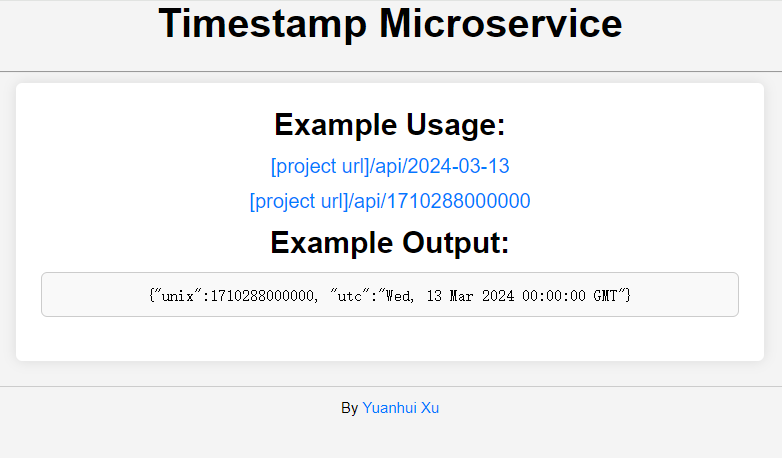
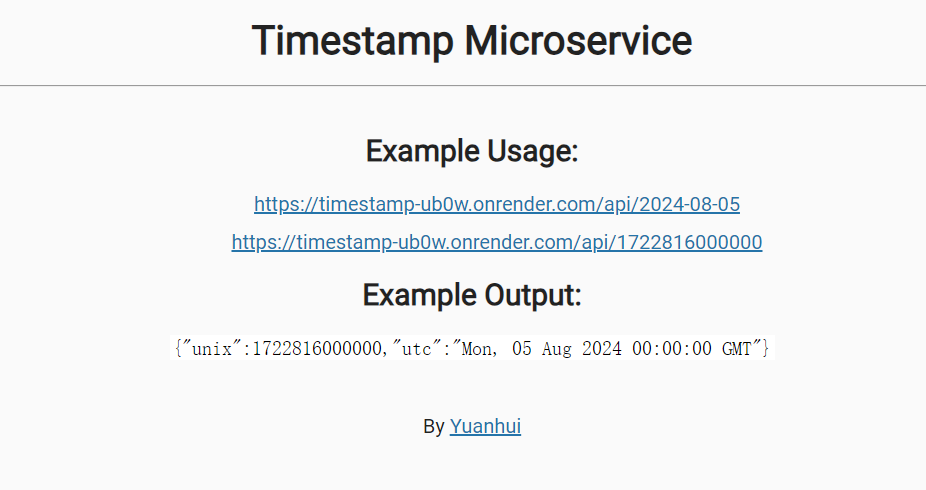
update timestamp api

diff --git a/script.js b/script.js
@@ -1,88 +1,88 @@
-document.addEventListener('DOMContentLoaded', function() {
-    const container = document.getElementById('container');
+document.addEventListener("DOMContentLoaded", function () {
+  const container = document.getElementById("container");
 
-    // Sample data for cards
-    const cards = [
-        { 
-            imageUrl: './assets/task-master.png',
-            title: 'Task Master',
-            keywords: 'React Javascript HTML CSS',
-            url: 'https://imyuanhui.github.io/task-master'
-        },
-        { 
-            imageUrl: './assets/markdown-previewer.png',
-            title: 'Markdown Previewer',
-            keywords: 'React Javascript HTML CSS',
-            url: 'https://imyuanhui.github.io/markdown-previewer'
-        },
-        { 
-            imageUrl: './assets/club.png',
-            title: 'Responsive Web Page',
-            keywords: 'React Javascript HTML CSS',
-            url: 'https://imyuanhui.github.io/boxing-club'
-        },
-        { 
-            imageUrl: './assets/online-drum.png',
-            title: 'Online Drum',
-            keywords: 'Javascript HTML CSS',
-            url: 'https://imyuanhui.github.io/online-drum'
-        },
-        { 
-            imageUrl: './assets/clock.png',
-            title: 'Pomodoro Clock',
-            keywords: 'Javascript HTML CSS',
-            url: 'https://imyuanhui.github.io/pomodoro-clock'
-        },
-        { 
-            imageUrl: './assets/quote-machine.png',
-            title: 'Random Quote Machine',
-            keywords: 'Javascript HTML CSS',
-            url: 'https://imyuanhui.github.io/random-quote-machine'
-        },
-        { 
-            imageUrl: './assets/timestamp.png',
-            title: 'Timestamp Mircoservice',
-            keywords: 'Node Express Javascript HTML CSS',
-            url: 'https://3000-freecodecam-boilerplate-wi2ngr0xs7o.ws-us110.gitpod.io/'
-        },
-        { 
-            imageUrl: './assets/parser.png',
-            title: 'Header Parser Microservice',
-            keywords: 'Node Express Javascript HTML CSS',
-            url: 'https://3000-freecodecam-boilerplate-z6vkcwscfzt.ws-us110.gitpod.io/'
-        }
-    ];
+  // Sample data for cards
+  const cards = [
+    {
+      imageUrl: "./assets/task-master.png",
+      title: "Task Master",
+      keywords: "React Javascript HTML CSS",
+      url: "https://imyuanhui.github.io/task-master",
+    },
+    {
+      imageUrl: "./assets/markdown-previewer.png",
+      title: "Markdown Previewer",
+      keywords: "React Javascript HTML CSS",
+      url: "https://imyuanhui.github.io/markdown-previewer",
+    },
+    {
+      imageUrl: "./assets/club.png",
+      title: "Responsive Web Page",
+      keywords: "React Javascript HTML CSS",
+      url: "https://imyuanhui.github.io/boxing-club",
+    },
+    {
+      imageUrl: "./assets/online-drum.png",
+      title: "Online Drum",
+      keywords: "Javascript HTML CSS",
+      url: "https://imyuanhui.github.io/online-drum",
+    },
+    {
+      imageUrl: "./assets/clock.png",
+      title: "Pomodoro Clock",
+      keywords: "Javascript HTML CSS",
+      url: "https://imyuanhui.github.io/pomodoro-clock",
+    },
+    {
+      imageUrl: "./assets/quote-machine.png",
+      title: "Random Quote Machine",
+      keywords: "Javascript HTML CSS",
+      url: "https://imyuanhui.github.io/random-quote-machine",
+    },
+    {
+      imageUrl: "./assets/timestamp.png",
+      title: "Timestamp Mircoservice",
+      keywords: "Node Express Javascript HTML CSS",
+      url: "https://timestamp-ub0w.onrender.com/",
+    },
+    {
+      imageUrl: "./assets/parser.png",
+      title: "Header Parser Microservice",
+      keywords: "Node Express Javascript HTML CSS",
+      url: "https://3000-freecodecam-boilerplate-z6vkcwscfzt.ws-us110.gitpod.io/",
+    },
+  ];
 
-    cards.forEach(function(cardData) {
-        const card = document.createElement('div');
-        card.classList.add('card');
+  cards.forEach(function (cardData) {
+    const card = document.createElement("div");
+    card.classList.add("card");
 
-        const img = document.createElement('img');
-        img.src = cardData.imageUrl;
-        img.alt = cardData.title;
+    const img = document.createElement("img");
+    img.src = cardData.imageUrl;
+    img.alt = cardData.title;
 
-        const cardContent = document.createElement('div');
-        cardContent.classList.add('card-content');
+    const cardContent = document.createElement("div");
+    cardContent.classList.add("card-content");
 
-        const h3 = document.createElement('h3');
-        h3.textContent = cardData.title;
+    const h3 = document.createElement("h3");
+    h3.textContent = cardData.title;
 
-        const p = document.createElement('p');
-        p.textContent = cardData.keywords;
+    const p = document.createElement("p");
+    p.textContent = cardData.keywords;
 
-        const viewMoreBtn = document.createElement('a');
-        viewMoreBtn.href = cardData.url;
-        viewMoreBtn.textContent = 'View More';
-        viewMoreBtn.classList.add('view-more-btn');
-        viewMoreBtn.target = '_blank';
+    const viewMoreBtn = document.createElement("a");
+    viewMoreBtn.href = cardData.url;
+    viewMoreBtn.textContent = "View More";
+    viewMoreBtn.classList.add("view-more-btn");
+    viewMoreBtn.target = "_blank";
 
-        cardContent.appendChild(h3);
-        cardContent.appendChild(p);
-        cardContent.appendChild(viewMoreBtn);
+    cardContent.appendChild(h3);
+    cardContent.appendChild(p);
+    cardContent.appendChild(viewMoreBtn);
 
-        card.appendChild(img);
-        card.appendChild(cardContent);
+    card.appendChild(img);
+    card.appendChild(cardContent);
 
-        container.appendChild(card);
-    });
+    container.appendChild(card);
+  });
 });
